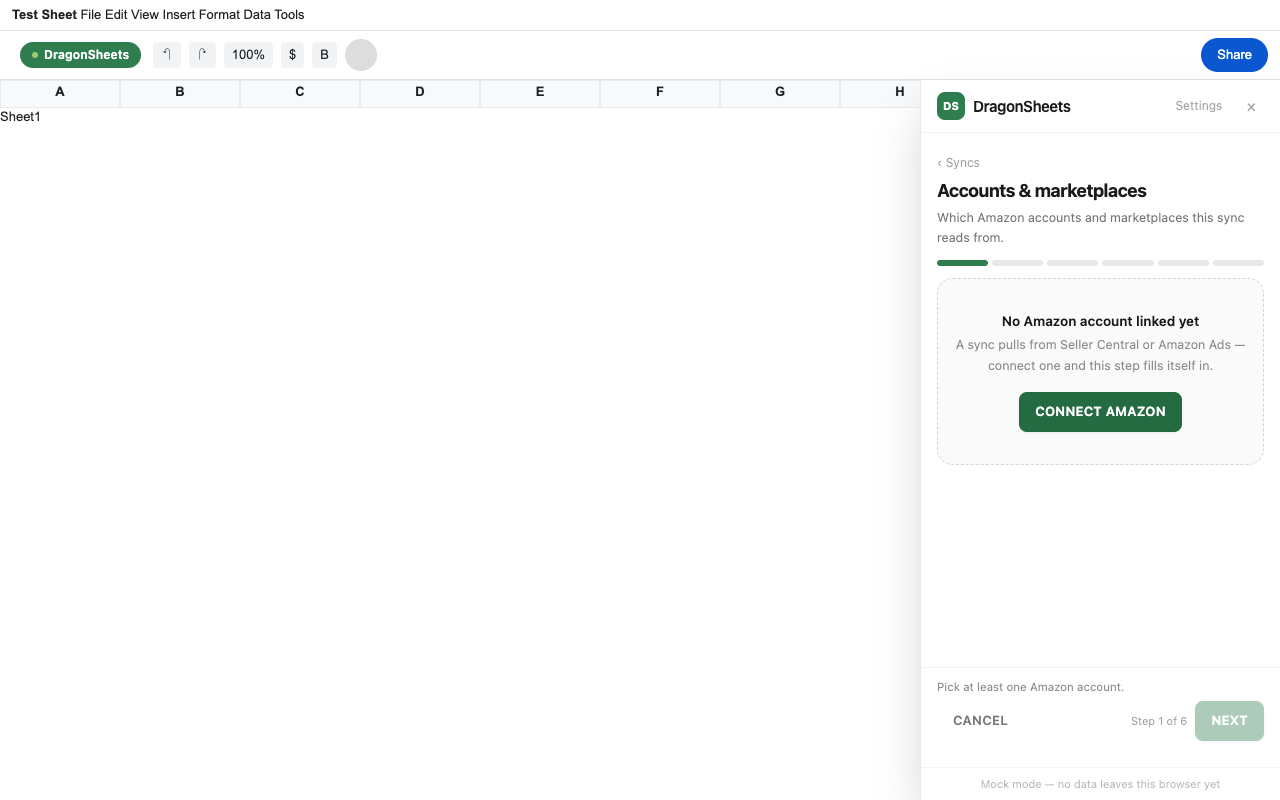
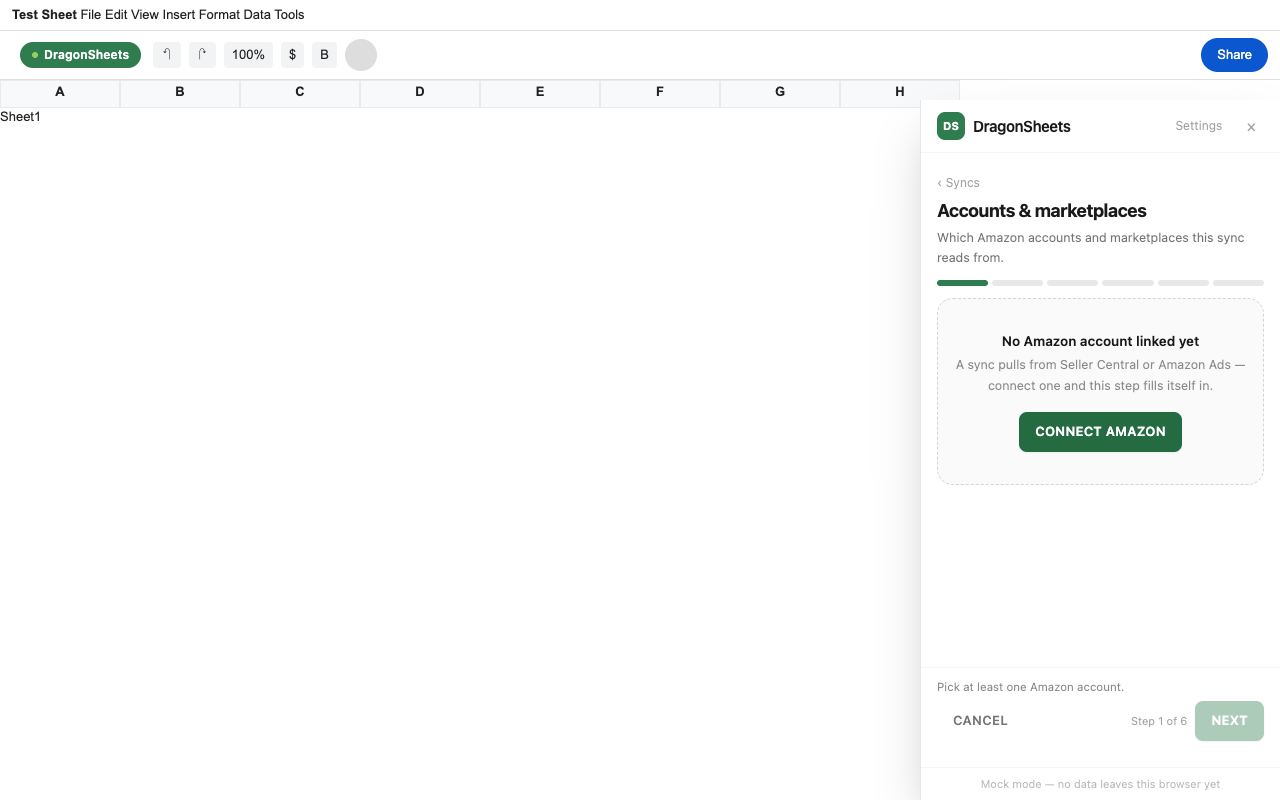
sidebar: fix the top offset at 100px instead of measuring the DOM
Measuring the bottom of Google's chrome was more precise and had more ways
to fail: it depended on their ids, nesting and render timing, and needed a
resize listener plus a ResizeObserver per bar to stay honest.

A constant does not care what Google does to its markup. The trade is real
but favourable — a wrong constant is wrong visibly and slightly (a thin gap,
a few pixels of overlap), whereas a selector that stops matching fails at
whatever the fallback happens to be, and a covered Share button is not
something users report.

The smoke test now asserts both the constant and the property it exists to
guarantee, so if Sheets' chrome ever grows past 100px the failure names the
real problem instead of just going red.

diff --git a/src/content/top-offset.ts b/src/content/top-offset.ts
@@ -2,109 +2,45 @@
  * Where the sidebar's top edge goes.
  *
  * The panel used to be `top:0; height:100vh`, which laid it straight over
- * Google's title bar and toolbar — including the **Share** button, which is
- * the one control the onboarding screen tells the user to click. The panel was
- * covering the thing it was asking for.
+ * Google's title bar — including the **Share** button, the one control the
+ * onboarding screen tells the user to click. The panel covered the thing it
+ * was asking for.
  *
- * So the offset is measured, not hardcoded: the bottom of Google's own chrome,
- * taken from the selectors we already own (`SelectorMap`), recomputed whenever
- * it can move. Hardcoding would break the moment Google adds a row, and break
- * silently — the failure mode is a covered button, which nobody reports as a
- * bug, they just give up.
+ * ── Why a constant rather than a measurement ──────────────────────────────
+ * This measured the bottom of Google's chrome via `SelectorMap`. That is more
+ * precise, and more things can go wrong with it: it depends on Google's DOM
+ * (ids, nesting, render timing) and needs a resize listener and a
+ * `ResizeObserver` per bar to stay honest.
  *
- * Both bars are measured and the LOWER edge wins, because their nesting is not
- * stable: in the live DOM `#docs-toolbar` sits inside `#docs-bars`, and taking
- * `#docs-bars` alone is right; in a DOM where they are siblings, taking
- * `#docs-bars` alone would leave the panel over the toolbar — where our own
- * launcher pill lives. `Math.max` is correct in both.
+ * A fixed offset is deliberately dumber and does not care what Google does to
+ * its markup. The trade is real but favourable: when a constant is wrong it is
+ * wrong *visibly and slightly* — a thin gap, or a few pixels of overlap —
+ * whereas a selector that stops matching fails at whatever the fallback
+ * happens to be, and a covered Share button is not something users report,
+ * they just give up.
+ *
+ * If Sheets ever changes its chrome height, edit the one number below.
  */
-import { logDiag } from "../lib/diagnostics";
-import { waitFor, type SelectorMap } from "./selector-map";
 
 /** The CSS custom property the panel reads. Set on the shadow host, which
  * inherits into the shadow tree. */
 export const TOP_OFFSET_VAR = "--ds-top-offset";
 
-/** Used only when NO bar can be found at all — roughly Sheets' title row. */
-export const FALLBACK_TOP_OFFSET = 56;
-
-/** A measurement past this is a broken DOM, not a tall toolbar. Clamping stops
- * one bad rect from eating the whole panel. */
-export const MAX_TOP_OFFSET = 240;
-
-export function clampTopOffset(value: number, fallback = FALLBACK_TOP_OFFSET): number {
-  if (!Number.isFinite(value)) return fallback;
-  return Math.max(0, Math.min(MAX_TOP_OFFSET, Math.round(value)));
-}
+/**
+ * Distance from the top of the viewport to the sidebar's top edge, in CSS
+ * pixels. Sized to clear the Sheets title row (document name, star, Share)
+ * and the menu bar beneath it.
+ */
+export const TOP_OFFSET = 100;
 
 /**
- * The bottom edge of Google's chrome, in CSS pixels from the top of the
- * viewport. A found-but-zero-height bar means Sheets is in full-screen mode
- * and 0 is the right answer — which is why "found" and "missing" are
- * distinguished rather than both falling back to 56.
+ * Publish the offset on `host`. Returns a teardown for symmetry with the rest
+ * of the mount code — there is nothing to tear down now, and callers should
+ * not have to know that.
  */
-export function measureTopOffset(selectors: SelectorMap, doc: Document = document): number {
-  let found = false;
-  let bottom = 0;
-  for (const selector of [selectors.docsBars, selectors.docsToolbar]) {
-    let el: Element | null = null;
-    try {
-      el = doc.querySelector(selector);
-    } catch {
-      el = null;
-    }
-    if (!el) continue;
-    found = true;
-    bottom = Math.max(bottom, el.getBoundingClientRect().bottom);
-  }
-  return found ? clampTopOffset(bottom, 0) : FALLBACK_TOP_OFFSET;
-}
-
-/**
- * Keep `--ds-top-offset` on `host` in step with the page. Returns a teardown.
- *
- * Recomputed on resize and, where available, whenever either bar's own box
- * changes — Sheets grows a second toolbar row for a chart selection, and the
- * panel has to follow it down rather than sit under it.
- */
-export function installTopOffset(host: HTMLElement, selectors: SelectorMap): () => void {
-  let last = -1;
-  const apply = (): void => {
-    const next = measureTopOffset(selectors);
-    if (next === last) return;
-    last = next;
-    host.style.setProperty(TOP_OFFSET_VAR, `${next}px`);
-  };
-  apply();
-  logDiag("top-offset-installed", { offset: last });
-
-  window.addEventListener("resize", apply, { passive: true });
-
-  const observers: ResizeObserver[] = [];
-  const observe = (el: Element): void => {
-    if (typeof ResizeObserver !== "function") return;
-    const ro = new ResizeObserver(apply);
-    ro.observe(el);
-    observers.push(ro);
-  };
-
-  for (const selector of [selectors.docsBars, selectors.docsToolbar]) {
-    const el = document.querySelector(selector);
-    if (el) {
-      observe(el);
-      continue;
-    }
-    // Google's chrome can render after we mount. Pick it up when it lands
-    // rather than living with the fallback for the rest of the session.
-    void waitFor(selector, 30_000).then((late) => {
-      if (!late) return;
-      apply();
-      observe(late);
-    });
-  }
-
+export function installTopOffset(host: HTMLElement): () => void {
+  host.style.setProperty(TOP_OFFSET_VAR, `${TOP_OFFSET}px`);
   return () => {
-    window.removeEventListener("resize", apply);
-    for (const ro of observers) ro.disconnect();
+    host.style.removeProperty(TOP_OFFSET_VAR);
   };
 }

diff --git a/src/content/mount.tsx b/src/content/mount.tsx
@@ -27,10 +27,9 @@ export function mountSidebar(selectors: SelectorMap): void {
   host.setAttribute("style", "position:fixed;top:0;right:0;width:0;height:0;z-index:2147483001;");
   document.body.appendChild(host);
 
-  // Custom properties inherit through the shadow boundary, so measuring
-  // Google's chrome out here and reading it inside App.tsx needs no plumbing
-  // — and no React re-render on every resize tick.
-  installTopOffset(host, selectors);
+  // Custom properties inherit through the shadow boundary, so setting the
+  // offset out here and reading it inside App.tsx needs no plumbing.
+  installTopOffset(host);
 
   const shadow = host.attachShadow({ mode: "open" });
 
